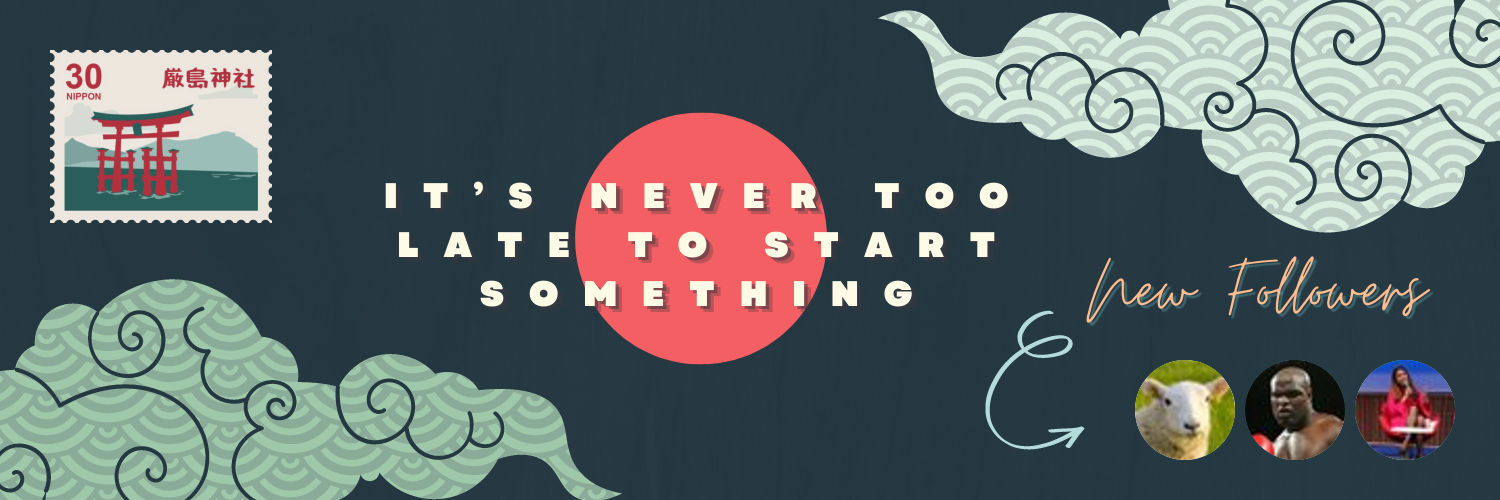
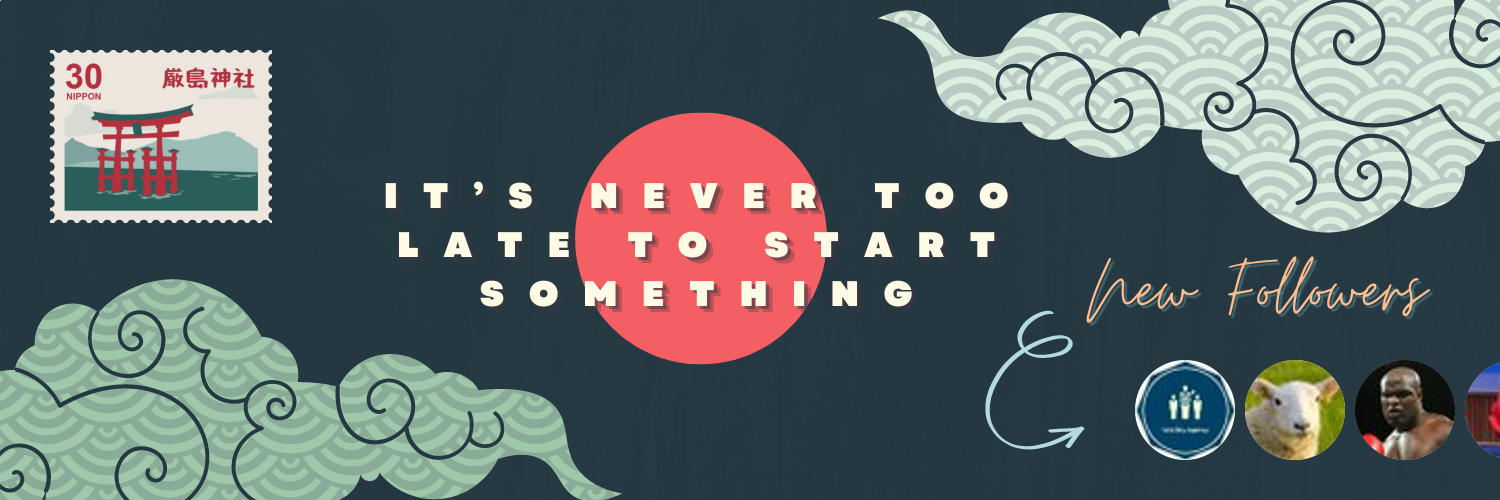
run cron job every 15 MINUTES

Changed region(s): [[0.736, 0.72, 1.0, 0.93]]

diff --git a/index.js b/index.js
@@ -17,7 +17,7 @@ const CronJob = require("cron").CronJob;
 // testTweet()
 
 console.log("starting node app");
-const job = new CronJob("* */2 * * *", async function () {
+const job = new CronJob("*/15 * * * *", async function () {
     console.log("start generating banner");
     generateHeader();
 });

diff --git a/README.md b/README.md
@@ -6,7 +6,7 @@ A Node script to create Dynamic Twitter Header
 ![This is an image](https://github.com/hmjatt/Twitter-header/blob/main/public/images/headers/twitterHeader.png)
 
 
-This project is created to create a Twitter Bot in NodeJS that fetches 3 latest followers using Twitter API V2 and create a Dynamic Twitter Header and upload it to Twitter. Dotenv, Axios, Sharp, Cron NPM packages are also used in this project.**CronJob** is run once every 2 hours in order to avoid making too many requests to **Twitter API** and not to run out of **dyno hours** on **Heroku**. :bird: Feel free to reach me at [Twitter](https://twitter.com/hmjatt/) :robot:
+This project is created to create a Twitter Bot in NodeJS that fetches 3 latest followers using Twitter API V2 and create a Dynamic Twitter Header and upload it to Twitter. Dotenv, Axios, Sharp, Cron NPM packages are also used in this project.**CronJob** is run once every 15 MINUTES in order to avoid making too many requests to **Twitter API** and not to run out of **dyno hours** on **Heroku**. :bird: Feel free to reach me at [Twitter](https://twitter.com/hmjatt/) :robot:
 
 
 
@@ -87,7 +87,7 @@ npm install
 	- [x] Import **const CronJob = require("cron").CronJob** dependency on top of `index.js`.
 	- [x] Create a new object **job** from the **CronJob class** which calls `generateHeader()` wrapper function once per minute.
 	- [x] Test `job` object and check if **dynamicTwitterHeader.png** is successfuly created and uploaded to Twitter(IT WORKS yeehaw :tada:)
-	- [x] Change **CronJob** to run once every 2 hours in order to avoid making too many requests to **Twitter API** and not to run out of **dyno hours** on **Heroku**.
+	- [x] Change **CronJob** to run once every 15 MINUTES in order to avoid making too many requests to **Twitter API** and not to run out of **dyno hours** on **Heroku**.
 
 9. ### Deploy to Heroku
 	- [x] Signed up for **Heroku** free tier(500 Dyno Hours/ month)
